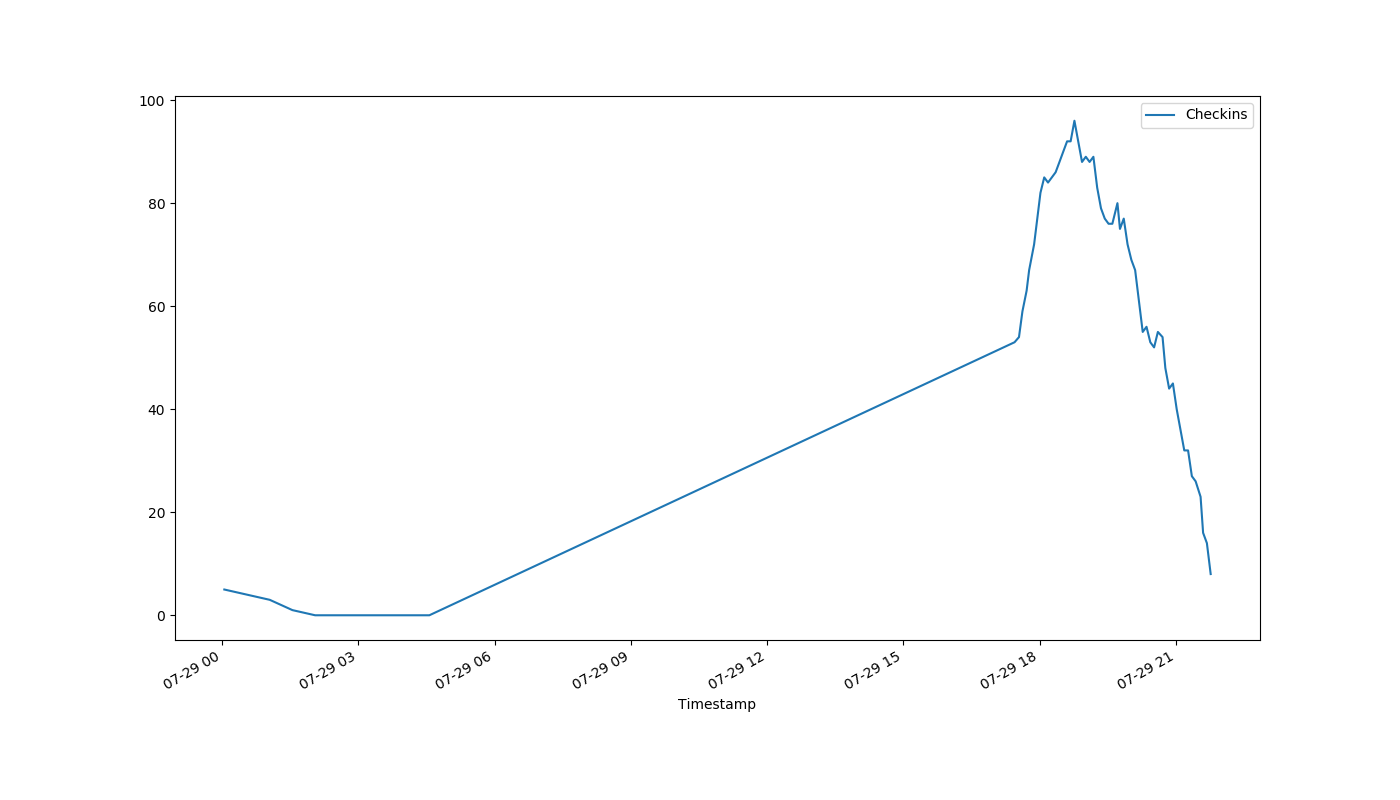
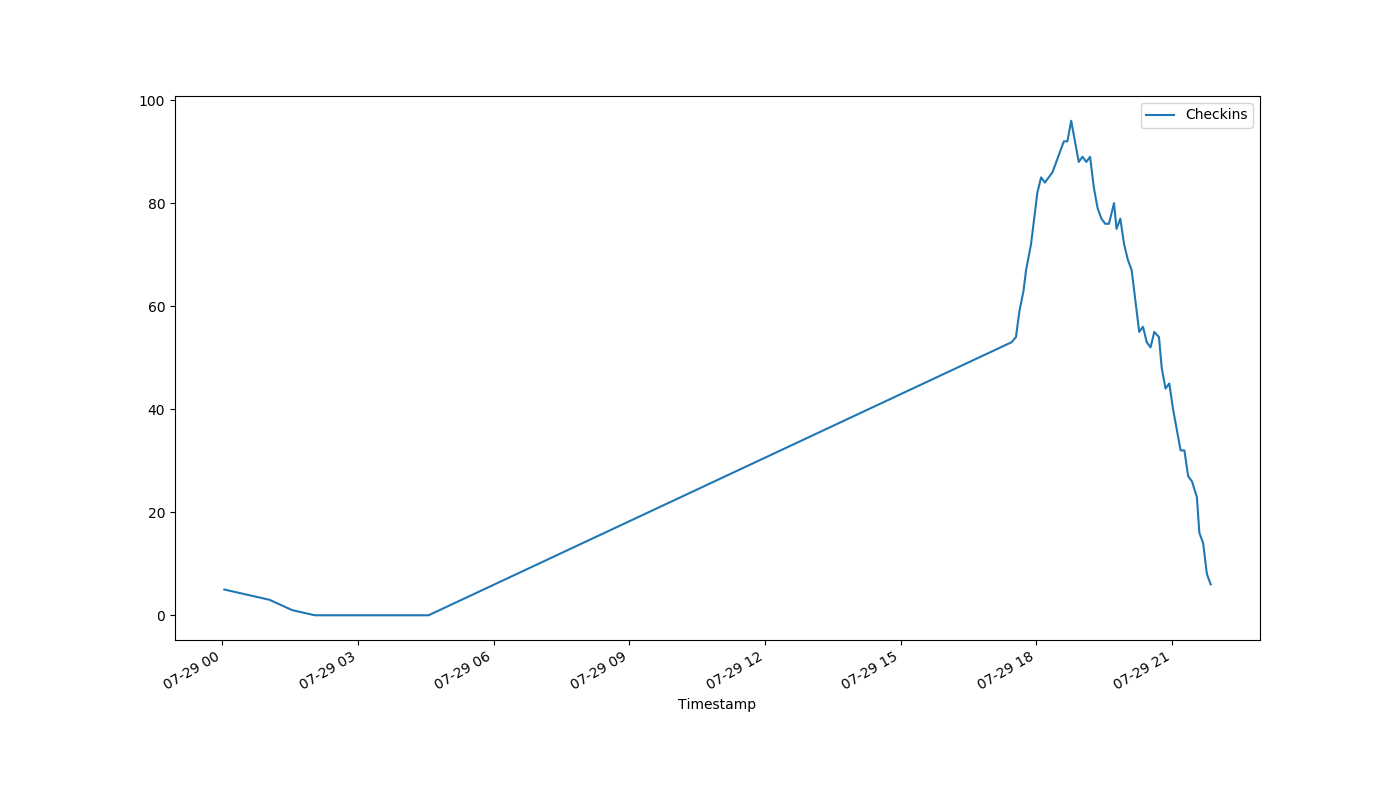
auto-Jul-29-21:51:42

diff --git a/index.html b/index.html
@@ -1,1 +1,1 @@
-<!DOCTYPE html><html><head><meta http-equiv="refresh" content="30"><link rel='stylesheet' href='holmcurrent.css'></head><body><p id='count'>8</p><div id='graph-wrap'><img id='graph' src='holmgraph-Jul-29.png'></div><p id='updated'>Last updated 21:46:09 / 21:46:03</p></body></html>
+<!DOCTYPE html><html><head><meta http-equiv="refresh" content="30"><link rel='stylesheet' href='holmcurrent.css'></head><body><p id='count'>6</p><div id='graph-wrap'><img id='graph' src='holmgraph-Jul-29.png'></div><p id='updated'>Last updated 21:51:09 / 21:51:03</p></body></html>
